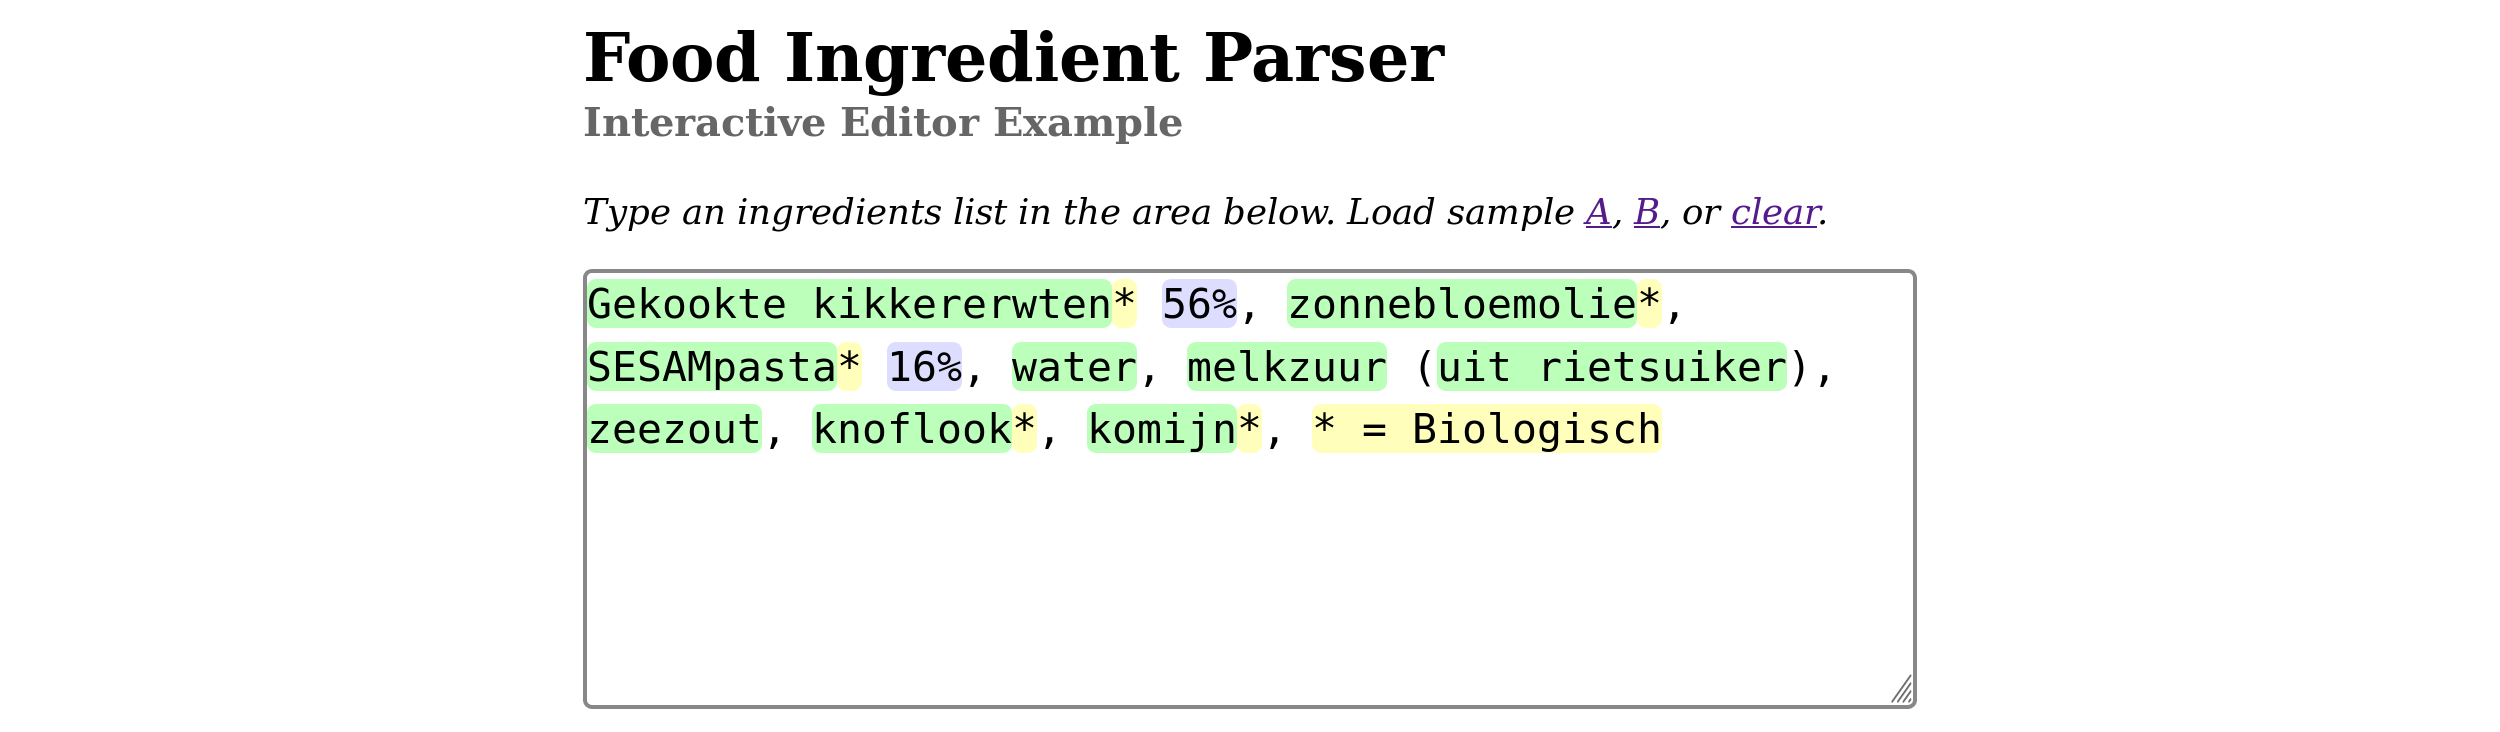
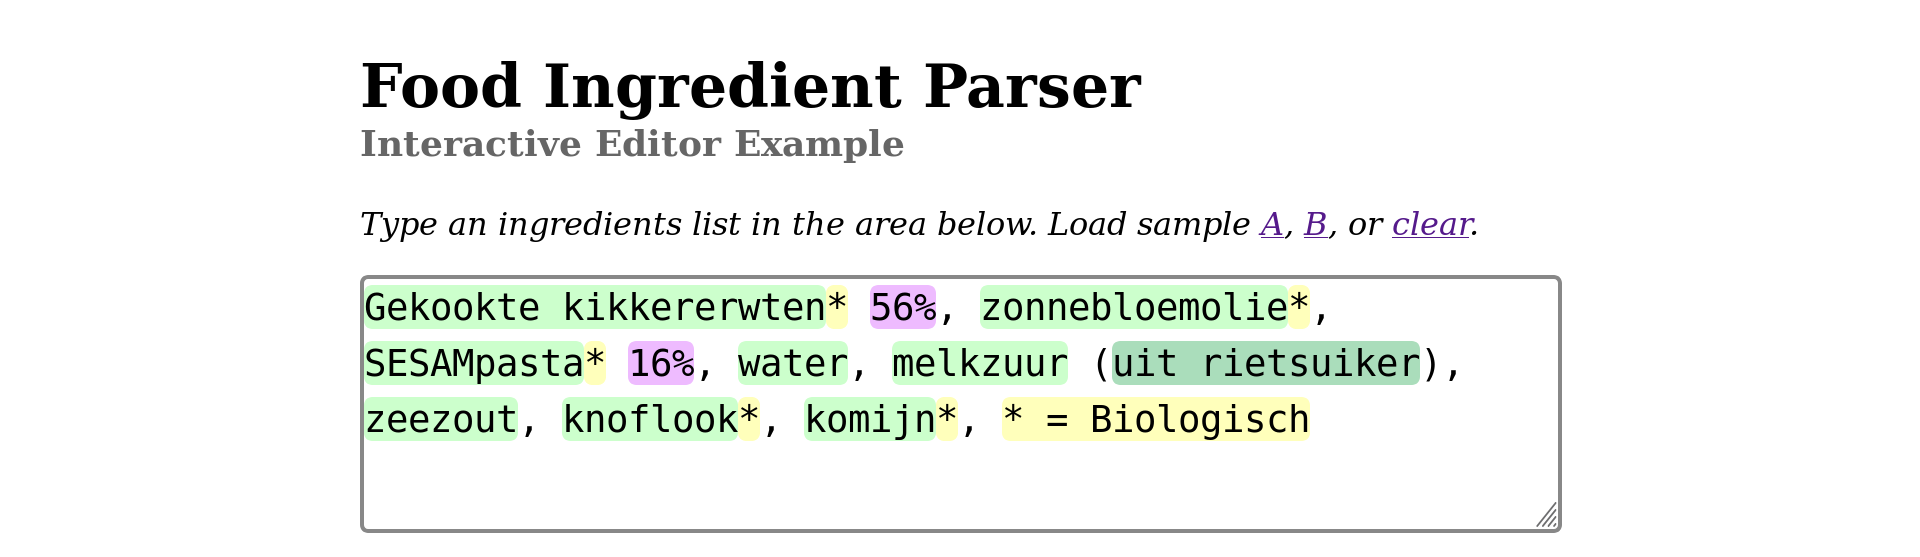
Add depth to html output

Changed region(s): [[0.1875, 0.3662, 0.8125, 0.7935], [0.1875, 0.0305, 0.75, 0.3357], [0.1875, 0.9156, 0.8125, 0.9767]]

diff --git a/examples/editor.css b/examples/editor.css
@@ -72,11 +72,15 @@ p.error {
   border-radius: 4px;
 }
 
-.highlight span.name    { background-color: #bbffbb; }
-.highlight span.amount  { background-color: #ddddff; }
-.highlight span.mark    { background-color: #ffffbb; }
-.highlight span.note    { background-color: #ffffbb; }
-.highlight span.error   { background-color: #ee4444; }
+.highlight span.amount          { background-color: #eebbff; }
+.highlight span.mark            { background-color: #ffffbb; }
+.highlight span.note            { background-color: #ffffbb; }
+.highlight span.error           { background-color: #ee4444; }
+
+.highlight .depth0 > span.name  { background-color: #ccffcc; }
+.highlight .depth1 > span.name  { background-color: #aaddbb; }
+.highlight .depth2 > span.name  { background-color: #99bb88; }
+.highlight           span.name  { background-color: #77bb66; }
 
 textarea {
   display: block !important;

diff --git a/lib/food_ingredient_parser/to_html.rb b/lib/food_ingredient_parser/to_html.rb
@@ -18,7 +18,7 @@ module FoodIngredientParser::ToHtml
 
   private
 
-  def node_to_html(node, cls=nil)
+  def node_to_html(node, cls=nil, depth=0)
     el_cls = {}               # map of node instances to class names for contained elements
     terminal = node.terminal? # whether to look at children elements or not
 
@@ -30,12 +30,21 @@ module FoodIngredientParser::ToHtml
     elsif node.is_a?(FoodIngredientParser::Grammar::IngredientNode)
       el_cls[node.name] = "name" if node.respond_to?(:name)
       el_cls[node.mark] = "mark" if node.respond_to?(:mark)
+      if node.respond_to?(:contains)
+        el_cls[node.contains] = "contains depth#{depth}"
+        depth += 1
+      end
+    elsif node.is_a?(FoodIngredientParser::Grammar::RootNode)
+      if node.respond_to?(:contains)
+        el_cls[node.contains] = "depth#{depth}"
+        depth += 1
+      end
     end
 
     val = if terminal
       CGI.escapeHTML(node.text_value)
     else
-      node.elements.map {|el| node_to_html(el, el_cls[el]) }.join("")
+      node.elements.map {|el| node_to_html(el, el_cls[el], depth) }.join("")
     end
 
     cls ? "<span class='#{cls}'>#{val}</span>" : val

diff --git a/examples/editor.rb b/examples/editor.rb
@@ -2,7 +2,7 @@
 #
 # Web-based editor for ingredient lists, with real-time validation.
 #
-# 1. Install sinatra: gem install sinatra
+# 1. Install dependencies: gem install treetop sinatra
 # 2. Run this: ruby editor.rb
 # 3. Open your browser at: http://localhost:4567/
 # 4. Type an ingredient list in the textbox.

diff --git a/README.md b/README.md
@@ -124,9 +124,14 @@ puts parsed.to_html
 ```
 
 ```html
-<span class='name'>Saus</span> (<span class='amount'>10%</span>
-<span class='name'>tomaat</span><span class='mark'>*</span>,
-<span class='name'>zout</span>). <span class='note'>* = bio</span>
+<span class='depth0'>
+  <span class='name'>Saus</span> (
+  <span class='contains depth1'>
+    <span class='amount'>10%</span> <span class='name'>tomaat</span><span class='mark'>*</span>,
+    <span class='name'>zout</span>
+  </span>)
+</span>.
+<span class='note'>* = bio</span>
 ```
 
 For an example of an interactive editor, see [examples/editor.rb](examples/editor.rb).
@@ -139,4 +144,3 @@ For an example of an interactive editor, see [examples/editor.rb](examples/edito
 real-world ingredient lists found on the Dutch market. Each line contains one ingredient
 list (newlines are encoded as `\n`, empty lines and those starting with `#` are ignored).
 Currently almost three quarter is recognized and parsed. We aim to reach at least 90%.
-
